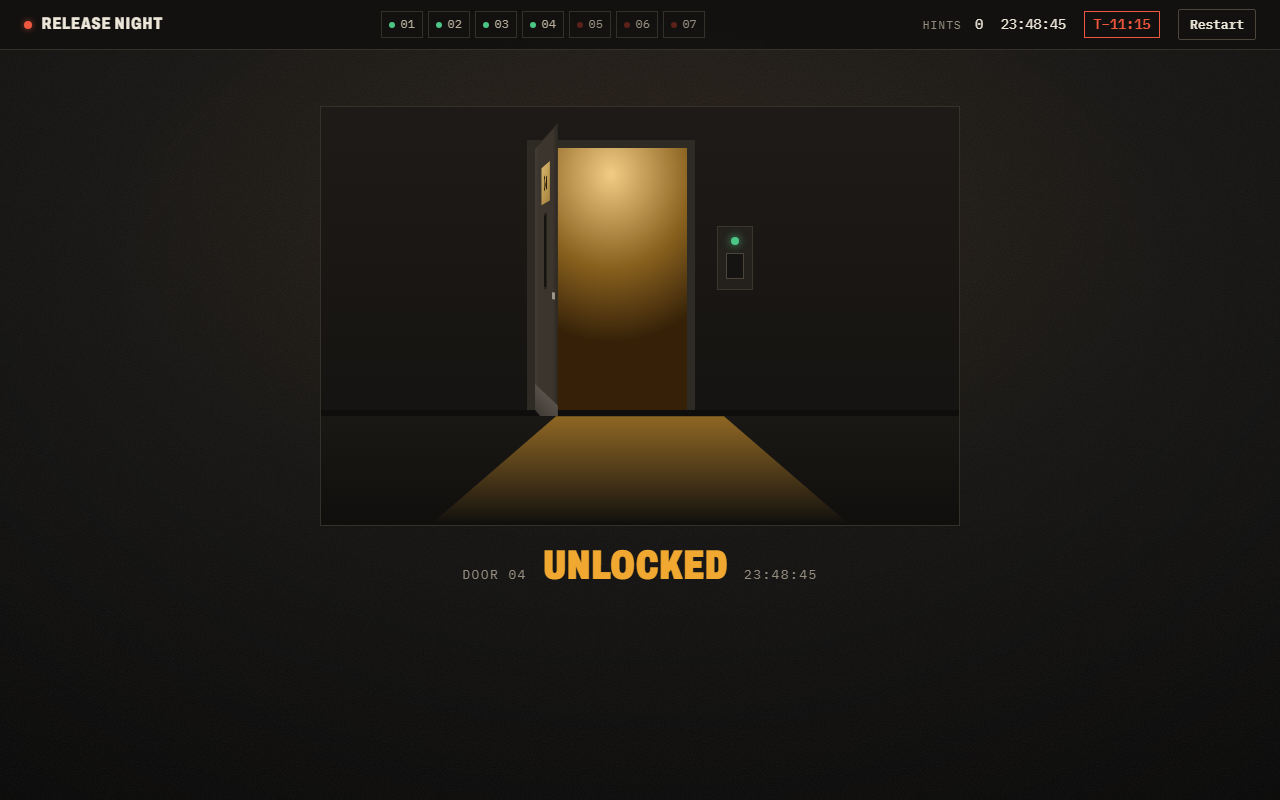
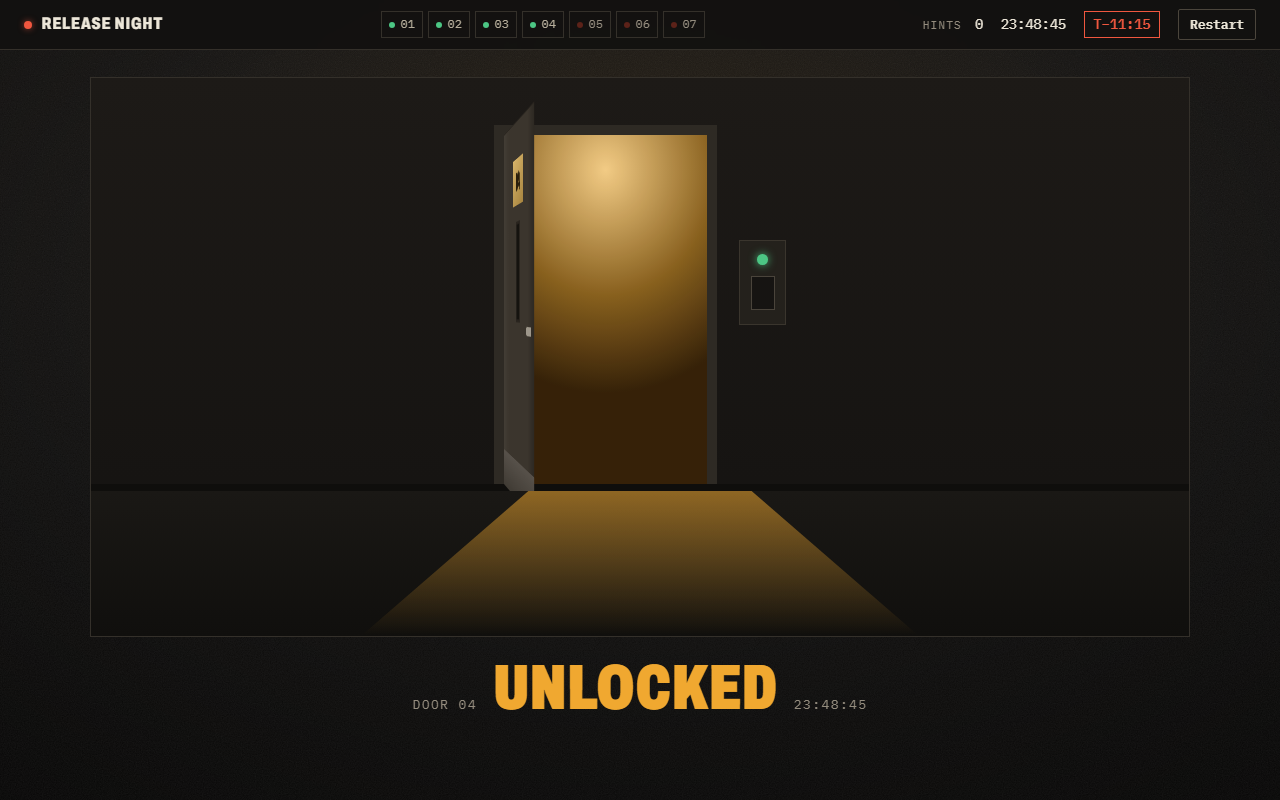
Scale the unlock scene with the window
The corridor scene was a fixed 640x420 box, small on large screens. It
now fills the content width (up to 1100px) and the window height
(360-760px), and everything inside is sized in one unit (a 420th of the
scene height, via container query units), so the door, reader and light
spill scale as one drawing. Checked at 1920x1080, 1366x768, 1024x768
and 375x812.

Changed region(s): [[0.3125, 0.125, 0.6875, 0.75], [0.3125, 0.8125, 0.6562, 0.9062]]

diff --git a/src/styles/game.css b/src/styles/game.css
@@ -1038,6 +1038,8 @@ a {
 
 /* =========================================================
    Unlock: the corridor, the door, the light
+   The scene fills the space it's given; everything inside is sized in
+   --u, one 420th of the scene's height, so it scales as one drawing.
    ========================================================= */
 .unlock {
   display: grid;
@@ -1048,11 +1050,17 @@ a {
 
 .unlock__scene {
   position: relative;
-  width: min(640px, 100%);
-  height: 420px;
+  width: min(1100px, 100%);
+  height: clamp(360px, calc(100vh - 240px), 760px);
+  container-type: size;
   overflow: hidden;
   border: 1px solid var(--line);
   background: linear-gradient(180deg, #1d1a17 0%, #161412 72%);
+}
+
+.unlock__wall,
+.unlock__floor {
+  --u: calc(100cqh / 420);
 }
 
 .unlock__wall {
@@ -1063,16 +1071,16 @@ a {
   justify-content: center;
   gap: 1.4rem;
   /* skirting board */
-  border-bottom: 6px solid #0f0e0c;
+  border-bottom: calc(6 * var(--u)) solid #0f0e0c;
 }
 
 .unlock__frame {
   position: relative;
-  width: 168px;
-  height: 270px;
-  border: 8px solid #2e2a24;
+  width: calc(168 * var(--u));
+  height: calc(270 * var(--u));
+  border: calc(8 * var(--u)) solid #2e2a24;
   border-bottom: none;
-  perspective: 900px;
+  perspective: calc(900 * var(--u));
   background: #0a0908;
 }
 
@@ -1100,38 +1108,38 @@ a {
 
 .unlock__plate {
   position: absolute;
-  top: 26px;
+  top: calc(26 * var(--u));
   left: 50%;
-  width: 54px;
-  margin-left: -27px;
+  width: calc(54 * var(--u));
+  margin-left: calc(-27 * var(--u));
   padding: 0.15rem 0;
   background: linear-gradient(160deg, #d7b46a, #a8853f);
   color: #2a1f0c;
   font-family: var(--display);
   font-stretch: 75%;
   font-weight: 900;
-  font-size: 1.2rem;
+  font-size: calc(19 * var(--u));
   text-align: center;
 }
 
 .unlock__window {
   position: absolute;
-  top: 70px;
+  top: calc(70 * var(--u));
   left: 50%;
-  width: 18px;
-  height: 70px;
-  margin-left: -9px;
+  width: calc(18 * var(--u));
+  height: calc(70 * var(--u));
+  margin-left: calc(-9 * var(--u));
   background: #15130f;
-  box-shadow: inset 0 0 0 2px #2a251f;
+  box-shadow: inset 0 0 0 calc(2 * var(--u)) #2a251f;
 }
 
 .unlock__handle {
   position: absolute;
-  top: 142px;
-  right: 14px;
-  width: 22px;
-  height: 6px;
-  border-radius: 3px;
+  top: calc(142 * var(--u));
+  right: calc(14 * var(--u));
+  width: calc(22 * var(--u));
+  height: calc(6 * var(--u));
+  border-radius: calc(3 * var(--u));
   background: #9d968a;
 }
 
@@ -1140,7 +1148,7 @@ a {
   bottom: 0;
   left: 0;
   right: 0;
-  height: 26px;
+  height: calc(26 * var(--u));
   background: linear-gradient(180deg, #57514a, #403b34);
 }
 
@@ -1148,26 +1156,26 @@ a {
 .unlock__reader {
   display: grid;
   justify-items: center;
-  gap: 8px;
+  gap: calc(8 * var(--u));
   order: 2;
-  margin-bottom: 120px;
-  padding: 10px 8px;
+  margin-bottom: calc(120 * var(--u));
+  padding: calc(10 * var(--u)) calc(8 * var(--u));
   background: #24211c;
   border: 1px solid #3a352d;
 }
 
 .unlock__reader-led {
-  width: 8px;
-  height: 8px;
+  width: calc(8 * var(--u));
+  height: calc(8 * var(--u));
   border-radius: 50%;
   background: var(--red);
-  box-shadow: 0 0 6px rgba(240, 87, 63, 0.8);
+  box-shadow: 0 0 calc(6 * var(--u)) rgba(240, 87, 63, 0.8);
   animation: reader-ok 0.01s linear 0.45s forwards;
 }
 
 .unlock__reader-slot {
-  width: 18px;
-  height: 26px;
+  width: calc(18 * var(--u));
+  height: calc(26 * var(--u));
   border: 1px solid #4a443b;
   background: #161412;
 }
@@ -1183,9 +1191,9 @@ a {
   position: absolute;
   top: 0;
   left: 50%;
-  width: 420px;
+  width: calc(420 * var(--u));
   height: 100%;
-  margin-left: -210px;
+  margin-left: calc(-210 * var(--u));
   clip-path: polygon(30% 0, 70% 0, 100% 100%, 0 100%);
   background: linear-gradient(180deg, rgba(240, 168, 48, 0.55), rgba(240, 168, 48, 0));
   opacity: 0;
@@ -1216,7 +1224,7 @@ a {
   font-family: var(--display);
   font-stretch: 70%;
   font-weight: 900;
-  font-size: 2.6rem;
+  font-size: clamp(2.4rem, 5vw, 4rem);
   line-height: 1;
   text-transform: uppercase;
   color: var(--amber);
